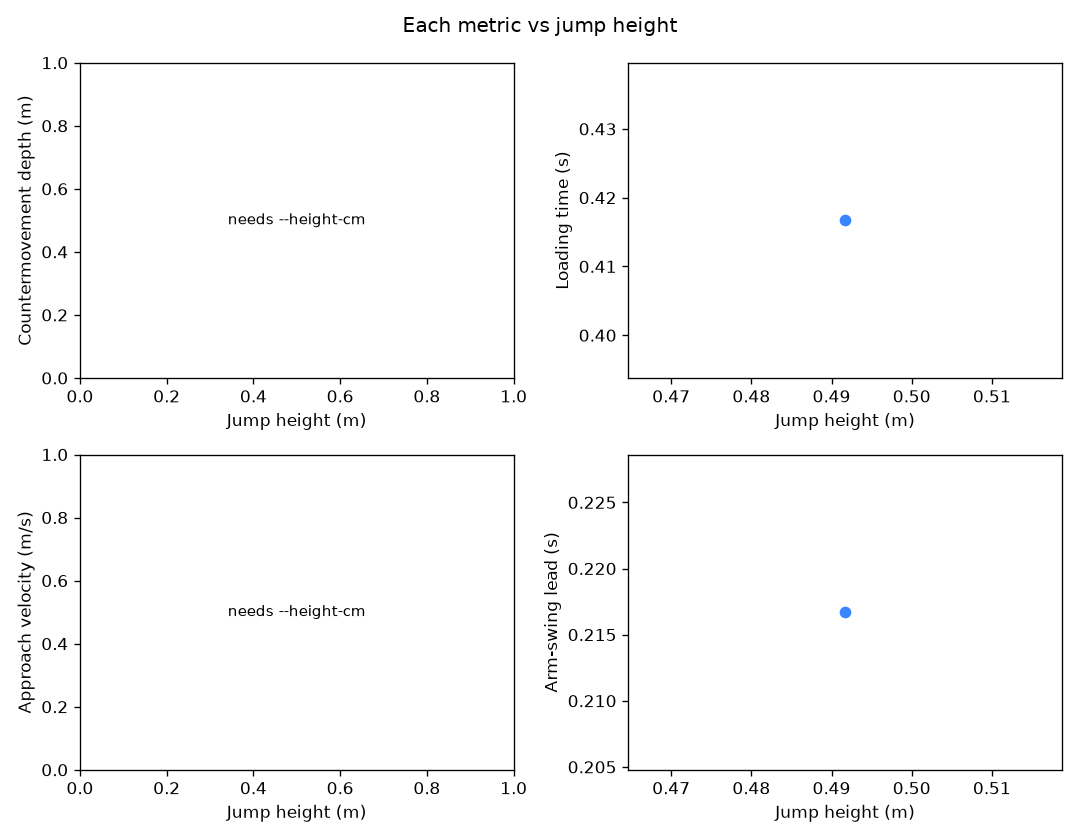
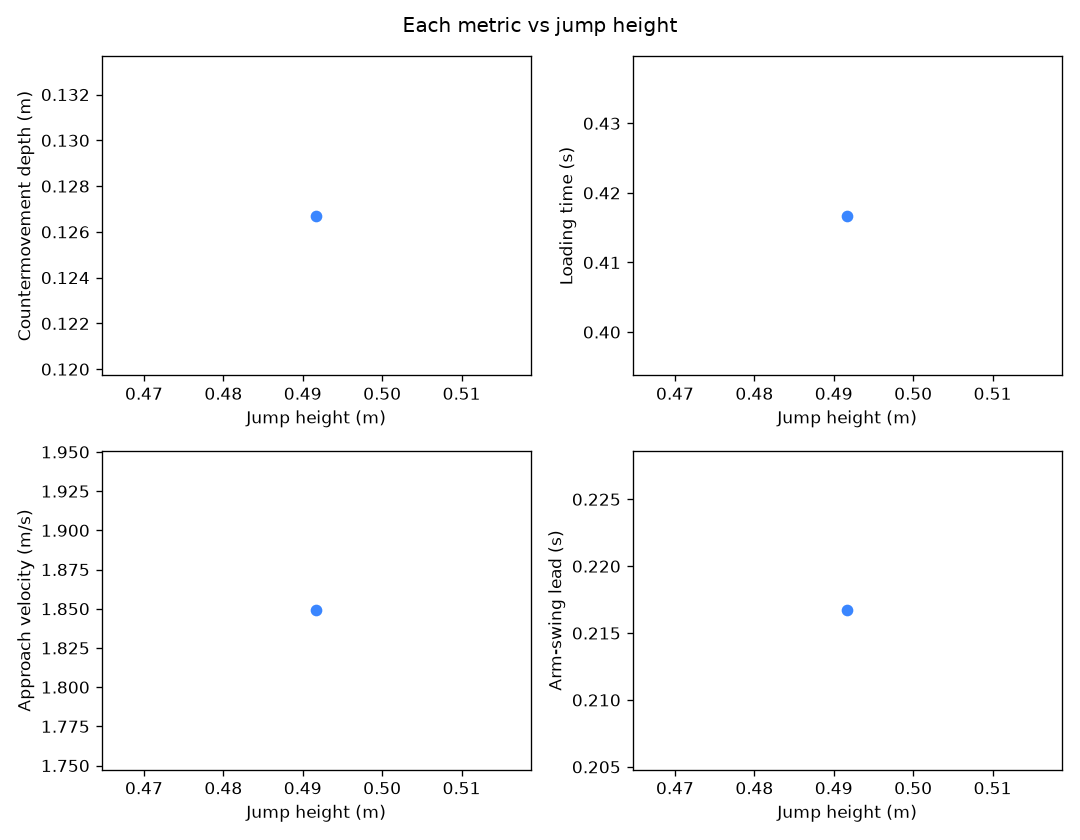
Demo: calibrated metrics (height 185 cm) — depth + approach velocity
Recomputed the published run with --height-cm 185 (6'1"), unlocking the
meter-scaled metrics. Live demo now shows all five: jump height 0.49 m,
countermovement depth 0.13 m, loading 0.42 s, approach velocity 1.85 m/s,
arm-swing lead 0.22 s. Overlay readout + GIF re-rendered with the calibrated
values.

diff --git a/demo/index.html b/demo/index.html
@@ -49,7 +49,9 @@
     <h2>Measured metrics</h2>
     <div class="cards">
       <div class="card"><div class="val">0.49 m</div><div class="lbl">Jump height</div></div>
+<div class="card"><div class="val">0.13 m</div><div class="lbl">Countermovement depth</div></div>
 <div class="card"><div class="val">0.42 s</div><div class="lbl">Loading time</div></div>
+<div class="card"><div class="val">1.8 m/s</div><div class="lbl">Approach velocity</div></div>
 <div class="card"><div class="val">0.22 s</div><div class="lbl">Arm-swing lead</div></div>
     </div>
   </section>
@@ -68,6 +70,6 @@
     <a href="https://github.com/ohmppatel920/sideout">github.com/ohmppatel920/sideout</a>.
   </footer>
 </div>
-<script>const METRICS = {"n_jumps": 1, "calibrated": false, "athlete_height_cm": null, "m_per_unit": null, "aggregates": {"best_jump_height_m": 0.4917, "mean_jump_height_m": 0.4917, "mean_flight_time_s": 0.6333}, "jumps": [{"index": 0, "takeoff_s": 1.3167, "landing_s": 1.95, "flight_time_s": 0.6333, "jump_height_m": 0.4917, "countermovement_depth_norm": 0.02271, "countermovement_depth_m": null, "loading_time_s": 0.4167, "approach_velocity_m_s": null, "arm_swing_timing_s": 0.2167}]};</script>
+<script>const METRICS = {"n_jumps": 1, "calibrated": true, "athlete_height_cm": 185.42, "m_per_unit": 5.57915, "aggregates": {"best_jump_height_m": 0.4917, "mean_jump_height_m": 0.4917, "mean_flight_time_s": 0.6333}, "jumps": [{"index": 0, "takeoff_s": 1.3167, "landing_s": 1.95, "flight_time_s": 0.6333, "jump_height_m": 0.4917, "countermovement_depth_norm": 0.02271, "countermovement_depth_m": 0.1267, "loading_time_s": 0.4167, "approach_velocity_m_s": 1.849, "arm_swing_timing_s": 0.2167}]};</script>
 </body>
 </html>